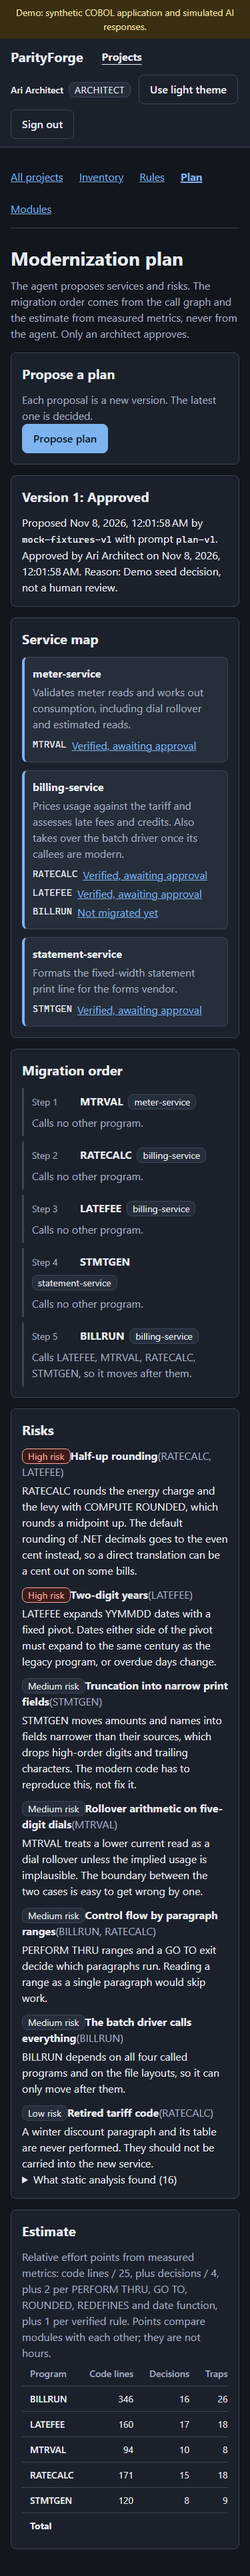
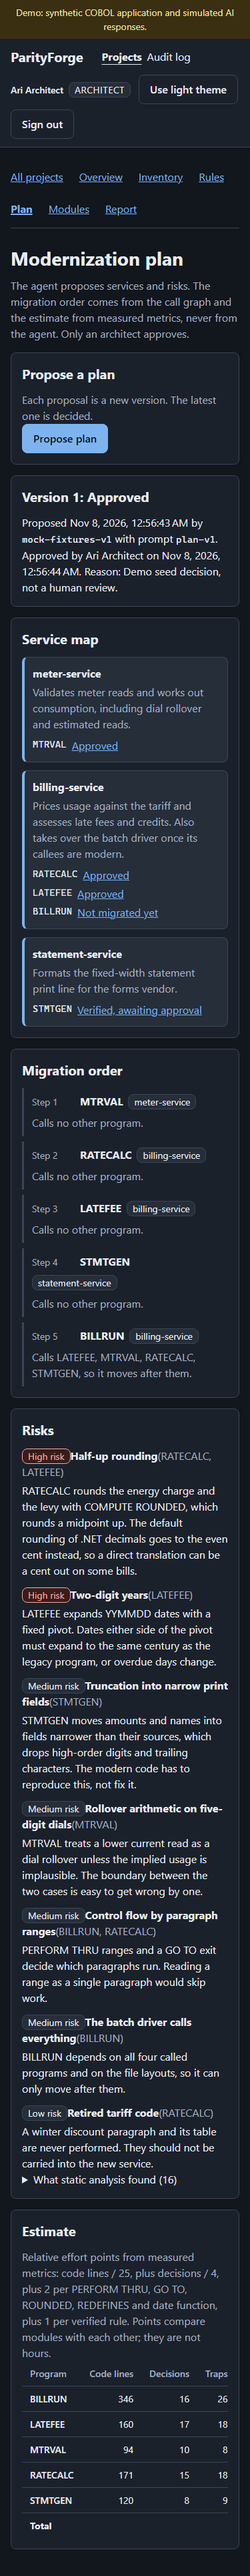
Cover promotion, gates, uploads, dashboard, report, audit and two-tab sessions in the browser suite
New journeys approve the repaired RATECALC, run it in shadow with replayed traffic,
promote it to modern and check that the facade answers from the repaired code; refuse
approval without a passing run, promotion before a clean shadow sample and decisions by the
wrong role; refuse uploads in the demo; match the overview to the stored numbers, download
the report as Markdown and print it; keep the audit log to architects and admins; and keep
two tabs signed in while they refresh together (ADR-018). The accessibility check now covers
every screen in both themes at 1280 and 375 px.

Changed region(s): [[0.4107, 0.0622, 0.4987, 0.0933], [0.3227, 0.0622, 0.352, 0.0933]]

diff --git a/e2e/tests/09-accessibility.spec.ts b/e2e/tests/09-accessibility.spec.ts
@@ -1,0 +1,101 @@
+import { Page, expect, test } from '@playwright/test';
+
+import { SCREENSHOTS, Theme, expectAccessible, expectNoSidewaysScroll, signIn, useTheme } from '../helpers';
+
+// Blueprint Section 10: zero serious or critical axe violations and no sideways scroll, on
+// every screen, in both themes, at desktop width and at 375 px.
+const SCREENS: { name: string; open: (page: Page) => Promise<void> }[] = [
+  {
+    name: 'projects',
+    open: async (page) => {
+      await page.getByRole('link', { name: 'Projects', exact: true }).click();
+      await expect(page.locator('.project').first()).toBeVisible();
+    },
+  },
+  {
+    name: 'overview',
+    open: async (page) => {
+      await page.getByRole('link', { name: 'BillRite' }).first().click();
+      await expect(page.locator('.tile').first()).toBeVisible();
+    },
+  },
+  {
+    name: 'inventory',
+    open: async (page) => {
+      await page.getByRole('link', { name: 'Inventory', exact: true }).click();
+      await expect(page.getByRole('heading', { level: 1 })).toBeVisible();
+    },
+  },
+  {
+    name: 'rules',
+    open: async (page) => {
+      await page.getByRole('link', { name: 'Rules', exact: true }).click();
+      await expect(page.getByRole('heading', { name: 'Business rules' })).toBeVisible();
+    },
+  },
+  {
+    name: 'plan',
+    open: async (page) => {
+      await page.getByRole('link', { name: 'Plan', exact: true }).click();
+      await expect(page.getByRole('heading', { name: 'Service map' })).toBeVisible();
+    },
+  },
+  {
+    name: 'modules',
+    open: async (page) => {
+      await page.getByRole('link', { name: 'Modules', exact: true }).click();
+      await expect(page.locator('tbody tr').first()).toBeVisible();
+    },
+  },
+  {
+    name: 'module-modern',
+    open: async (page) => {
+      await page.getByRole('link', { name: 'MTRVAL' }).click();
+      await expect(page.getByRole('heading', { name: 'Routing' })).toBeVisible();
+      await expect(page.locator('.summary')).toBeVisible();
+    },
+  },
+  {
+    name: 'report',
+    open: async (page) => {
+      await page.getByRole('link', { name: 'Report', exact: true }).click();
+      await expect(page.getByRole('heading', { name: /As-Is/ })).toBeVisible();
+    },
+  },
+  {
+    name: 'audit',
+    open: async (page) => {
+      await page.getByRole('link', { name: 'Audit log' }).click();
+      await expect(page.locator('tbody tr').first()).toBeVisible();
+    },
+  },
+];
+
+for (const theme of ['light', 'dark'] as Theme[]) {
+  for (const width of [1280, 375]) {
+    test(`every screen: ${theme} theme at ${width} px`, async ({ page }) => {
+      await page.setViewportSize({ width, height: 900 });
+      await useTheme(page, theme);
+      await signIn(page, 'architect');
+      await expect(page.locator('html')).toHaveAttribute('data-theme', theme);
+      await expectAccessible(page, `projects, ${theme}, ${width}px`);
+      for (const screen of SCREENS) {
+        await screen.open(page);
+        await expectAccessible(page, `${screen.name}, ${theme}, ${width}px`);
+        await expectNoSidewaysScroll(page, `${screen.name}, ${theme}, ${width}px`);
+        if (width === 375 || theme === 'dark') {
+          await page.screenshot({ path: `${SCREENSHOTS}/${screen.name}-${theme}-${width}.png`, fullPage: true });
+        }
+      }
+    });
+  }
+}
+
+test('the sign-in page in both themes', async ({ page }) => {
+  for (const theme of ['light', 'dark'] as Theme[]) {
+    await useTheme(page, theme);
+    await page.goto('/login');
+    await expect(page.locator('html')).toHaveAttribute('data-theme', theme);
+    await expectAccessible(page, `login, ${theme}`);
+  }
+});

diff --git a/e2e/tests/07-dashboard-report-audit.spec.ts b/e2e/tests/07-dashboard-report-audit.spec.ts
@@ -1,0 +1,61 @@
+import { readFileSync } from 'node:fs';
+
+import { expect, test } from '@playwright/test';
+
+import { SCREENSHOTS, apiToken, billriteId, signIn } from '../helpers';
+
+test('the overview shows the stored numbers', async ({ page, request }) => {
+  const viewer = await apiToken(request, 'viewer');
+  const project = await billriteId(request, viewer);
+  const dashboard = await (
+    await request.get(`/api/v1/projects/${project}/dashboard`, { headers: { Authorization: `Bearer ${viewer}` } })
+  ).json();
+
+  await signIn(page, 'viewer');
+  await page.getByRole('link', { name: 'BillRite' }).first().click();
+  await expect(page).toHaveURL(/\/overview$/);
+  const tiles = page.locator('.tile');
+  await expect(tiles.nth(2)).toContainText(`${dashboard.equivalence.identical} of ${dashboard.equivalence.cases}`);
+  await expect(tiles.nth(3)).toContainText(`${dashboard.ai.calls} calls`);
+  const modern = page.locator('tbody tr').filter({ hasText: 'MTRVAL' });
+  await expect(modern).toContainText('Modern');
+  await page.screenshot({ path: `${SCREENSHOTS}/overview-light.png`, fullPage: true });
+});
+
+test('the assessment report renders and downloads as Markdown', async ({ page }) => {
+  await signIn(page, 'viewer');
+  await page.getByRole('link', { name: 'BillRite' }).first().click();
+  await page.getByRole('link', { name: 'Report', exact: true }).click();
+  await expect(page.getByRole('heading', { name: /As-Is/ })).toBeVisible();
+  await expect(page.getByRole('heading', { name: /To-Be/ })).toBeVisible();
+  await expect(page.getByRole('heading', { name: /Transition/ })).toBeVisible();
+  const downloading = page.waitForEvent('download');
+  await page.getByRole('button', { name: 'Download Markdown' }).click();
+  const download = await downloading;
+  expect(download.suggestedFilename()).toBe('assessment-report.md');
+  const text = readFileSync(await download.path(), 'utf-8');
+  expect(text).toContain('# BillRite modernization assessment');
+  expect(text).toContain('## As-Is');
+  await page.emulateMedia({ media: 'print' });
+  await expect(page.getByRole('button', { name: 'Download Markdown' })).toBeHidden();
+  await page.screenshot({ path: `${SCREENSHOTS}/report-print.png`, fullPage: true });
+});
+
+test('the audit log is for architects and admins', async ({ page, request }) => {
+  const engineer = await apiToken(request, 'engineer');
+  expect((await request.get('/api/v1/admin/audit', { headers: { Authorization: `Bearer ${engineer}` } })).status()).toBe(403);
+
+  await signIn(page, 'engineer');
+  await expect(page.getByRole('link', { name: 'Audit log' })).toHaveCount(0);
+  await page.goto('/admin/audit');
+  await expect(page.getByText('Only architects and admins can read the audit log.')).toBeVisible();
+  await page.getByRole('button', { name: 'Sign out' }).click();
+  await expect(page).toHaveURL(/\/login$/);
+
+  await signIn(page, 'architect');
+  await page.getByRole('link', { name: 'Audit log' }).click();
+  await expect(page.locator('tbody tr').first()).toBeVisible();
+  await page.getByLabel('Action').selectOption('facade.');
+  await expect(page.locator('tbody tr').first()).toContainText('facade.');
+  await page.screenshot({ path: `${SCREENSHOTS}/audit.png`, fullPage: true });
+});

diff --git a/e2e/tests/06-gates-and-roles.spec.ts b/e2e/tests/06-gates-and-roles.spec.ts
@@ -1,0 +1,70 @@
+import { expect, test } from '@playwright/test';
+
+import { apiToken, billriteId, moduleId } from '../helpers';
+
+// Blueprint Sections 3.4 and 14: the gates and roles hold when called directly.
+test('approval and promotion are refused without the evidence or the role', async ({ request }) => {
+  const architect = await apiToken(request, 'architect');
+  const engineer = await apiToken(request, 'engineer');
+  const viewer = await apiToken(request, 'viewer');
+  const project = await billriteId(request, viewer);
+  const as = (token: string) => ({ Authorization: `Bearer ${token}` });
+  const detail = async (program: string) => {
+    const id = await moduleId(request, viewer, project, program);
+    const response = await request.get(`/api/v1/modules/${id}`, { headers: as(viewer) });
+    return response.json();
+  };
+
+  const billrun = await detail('BILLRUN');
+  const pending = await request.post(`/api/v1/modules/${billrun.id}/decision`, {
+    headers: as(architect),
+    data: { decision: 'APPROVED', expected_version: billrun.version },
+  });
+  expect(pending.status()).toBe(409);
+  expect((await pending.json()).error.code).toBe('VERIFICATION_REQUIRED');
+
+  const stmtgen = await detail('STMTGEN');
+  expect(stmtgen.state).toBe('VERIFIED');
+  for (const token of [engineer, viewer]) {
+    const response = await request.post(`/api/v1/modules/${stmtgen.id}/decision`, {
+      headers: as(token),
+      data: { decision: 'APPROVED', expected_version: stmtgen.version },
+    });
+    expect(response.status()).toBe(403);
+  }
+  const notApproved = await request.post(`/api/v1/modules/${stmtgen.id}/facade-mode`, {
+    headers: as(architect),
+    data: { mode: 'MODERN', expected_version: stmtgen.version },
+  });
+  expect((await notApproved.json()).error.code).toBe('NOT_APPROVED');
+
+  const latefee = await detail('LATEFEE');
+  expect(latefee.facade_mode).toBe('SHADOW');
+  expect(latefee.shadow.compared).toBeLessThan(latefee.shadow.sample);
+  const early = await request.post(`/api/v1/modules/${latefee.id}/facade-mode`, {
+    headers: as(architect),
+    data: { mode: 'MODERN', expected_version: latefee.version },
+  });
+  expect(early.status()).toBe(409);
+  expect((await early.json()).error.code).toBe('SHADOW_GATE');
+  const engineerMode = await request.post(`/api/v1/modules/${latefee.id}/facade-mode`, {
+    headers: as(engineer),
+    data: { mode: 'LEGACY', expected_version: latefee.version },
+  });
+  expect(engineerMode.status()).toBe(403);
+});
+
+test('uploads are refused in the public demo', async ({ request, page }) => {
+  const engineer = await apiToken(request, 'engineer');
+  const response = await request.post('/api/v1/projects', {
+    headers: { Authorization: `Bearer ${engineer}` },
+    multipart: { name: 'Mine', archive: { name: 'a.zip', mimeType: 'application/zip', buffer: Buffer.from('PK') } },
+  });
+  expect(response.status()).toBe(403);
+  expect((await response.json()).error.code).toBe('UPLOADS_DISABLED');
+
+  const { signIn } = await import('../helpers');
+  await signIn(page, 'engineer');
+  await expect(page.getByText('Uploads are turned off in the public demo')).toBeVisible();
+  await expect(page.locator('input[type="file"]')).toHaveCount(0);
+});

diff --git a/e2e/tests/05-promotion.spec.ts b/e2e/tests/05-promotion.spec.ts
@@ -1,0 +1,53 @@
+import { expect, test } from '@playwright/test';
+
+import { SCREENSHOTS, signIn } from '../helpers';
+
+const FACADE = process.env.E2E_FACADE_URL ?? 'http://localhost:8200';
+
+// Blueprint Section 3.1, step 8: after the rounding repair, the architect approves RATECALC,
+// runs it in shadow mode, and promotes it to modern once the shadow sample is clean. The
+// facade then answers from the repaired C#: half-up rounding, as the COBOL does.
+test('the repaired module is approved, shadowed and promoted to modern', async ({ page, request }) => {
+  await signIn(page, 'architect');
+  await page.getByRole('link', { name: 'BillRite' }).first().click();
+  await page.getByRole('link', { name: 'Modules', exact: true }).click();
+  await page.getByRole('link', { name: 'RATECALC' }).click();
+  await expect(page.getByText('Verified and awaiting').first()).toBeVisible();
+
+  await page.getByRole('button', { name: 'Approve module' }).click();
+  await expect(page.getByText(/Approved by Ari Architect/)).toBeVisible();
+  await page.getByRole('button', { name: 'Start shadow mode' }).click();
+  await expect(page.getByText(/0 compared, 0 mismatched/)).toBeVisible();
+  await expect(page.getByRole('button', { name: 'Promote to modern' })).toBeDisabled();
+
+  await page.getByRole('button', { name: 'Replay recorded traffic' }).click();
+  await expect(page.getByText(/20 compared, 0 mismatched/)).toBeVisible({ timeout: 5 * 60 * 1000 });
+  await expect(page.getByText(/with none mismatched: met/)).toBeVisible();
+  await page.getByRole('button', { name: 'Promote to modern' }).click();
+  await expect(page.getByText('to the modern module')).toBeVisible();
+  await page.screenshot({ path: `${SCREENSHOTS}/module-modern.png`, fullPage: true });
+
+  // The facade picks up the new route within a few seconds.
+  await expect
+    .poll(async () => {
+      const response = await request.post(`${FACADE}/billing/rate`, {
+        data: { customer_class: 'R', month: 10, kwh: 610 },
+      });
+      return response.headers()['x-parityforge-route'];
+    }, { timeout: 30_000 })
+    .toBe('modern');
+  const answer = await request.post(`${FACADE}/billing/rate`, { data: { customer_class: 'R', month: 10, kwh: 610 } });
+  expect(answer.status()).toBe(200);
+  const body = await answer.json();
+  // 54.72 + 1.185 = 55.905, which COBOL ROUNDED and the repaired module both round up.
+  expect(body.energy).toBe('55.91');
+  expect(body.total).toBe('61.66');
+});
+
+test('the facade refuses bad requests before any backend runs', async ({ request }) => {
+  const response = await request.post(`${FACADE}/billing/late-fee`, {
+    data: { balance: '-1.00', due_date: '990101', bill_date: '990201', senior: false, credit: '0.00' },
+  });
+  expect(response.status()).toBe(422);
+  expect((await response.json()).error.code).toBe('VALIDATION_ERROR');
+});

diff --git a/e2e/tests/08-multi-tab-session.spec.ts b/e2e/tests/08-multi-tab-session.spec.ts
@@ -1,0 +1,24 @@
+import { expect, test } from '@playwright/test';
+
+import { signIn } from '../helpers';
+
+// ADR-018: the refresh cookie rotates and reuse revokes the session, so two tabs refreshing
+// at the same moment must not sign each other out. The app serializes refreshes across tabs.
+test('two tabs reloading together both stay signed in', async ({ context, page }) => {
+  await signIn(page, 'engineer');
+  const second = await context.newPage();
+  await second.goto('/projects');
+  await expect(second.getByRole('heading', { name: 'Projects' })).toBeVisible();
+
+  for (let round = 0; round < 3; round++) {
+    await Promise.all([page.reload(), second.reload()]);
+    for (const tab of [page, second]) {
+      await expect(tab).toHaveURL(/\/projects$/);
+      await expect(tab.getByRole('button', { name: 'Sign out' })).toBeVisible();
+      await expect(tab.getByRole('link', { name: 'BillRite' }).first()).toBeVisible();
+    }
+  }
+  // Each tab still holds a working session for API calls.
+  await second.getByRole('link', { name: 'BillRite' }).first().click();
+  await expect(second.locator('.tile').first()).toBeVisible();
+});
